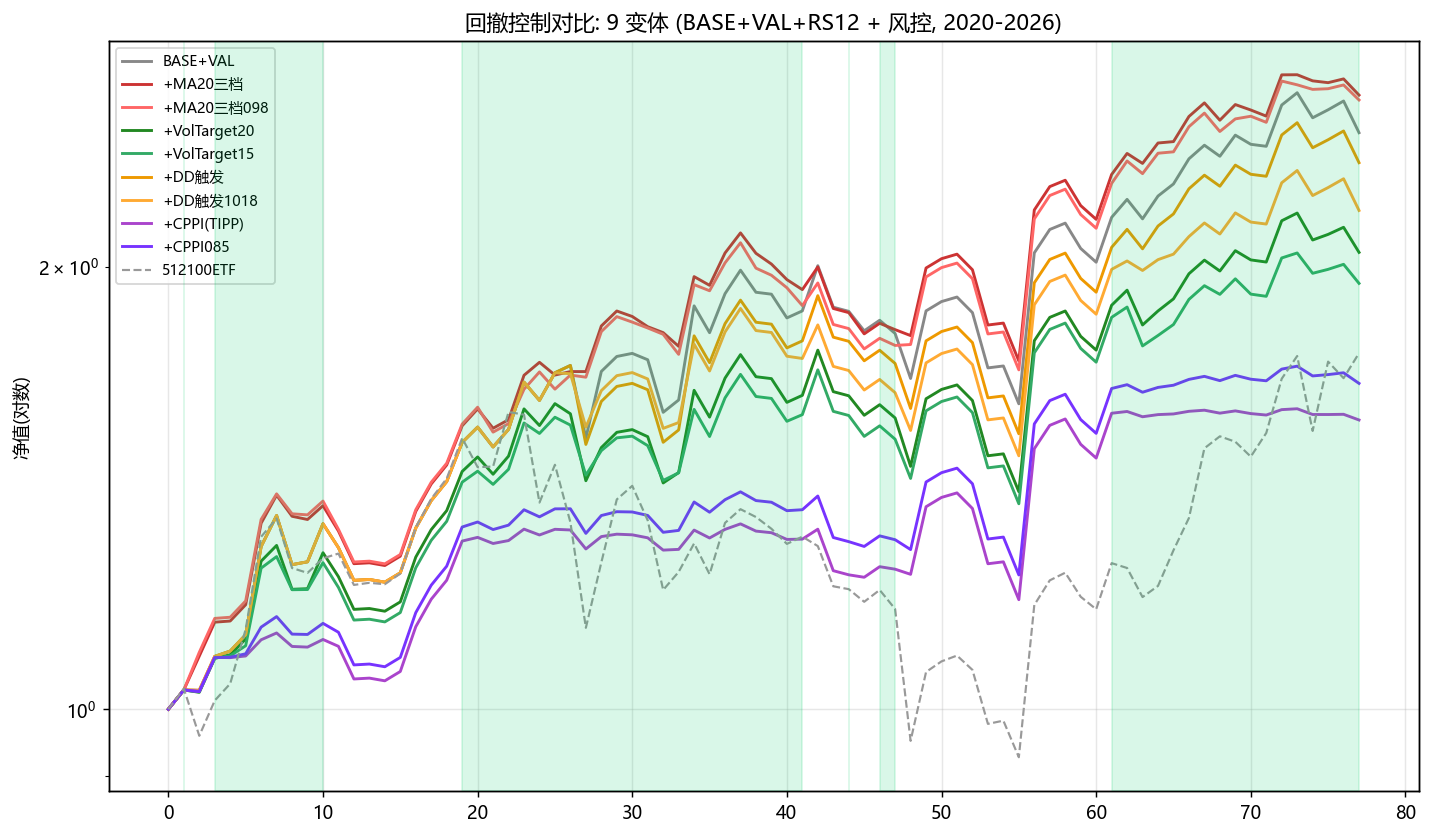
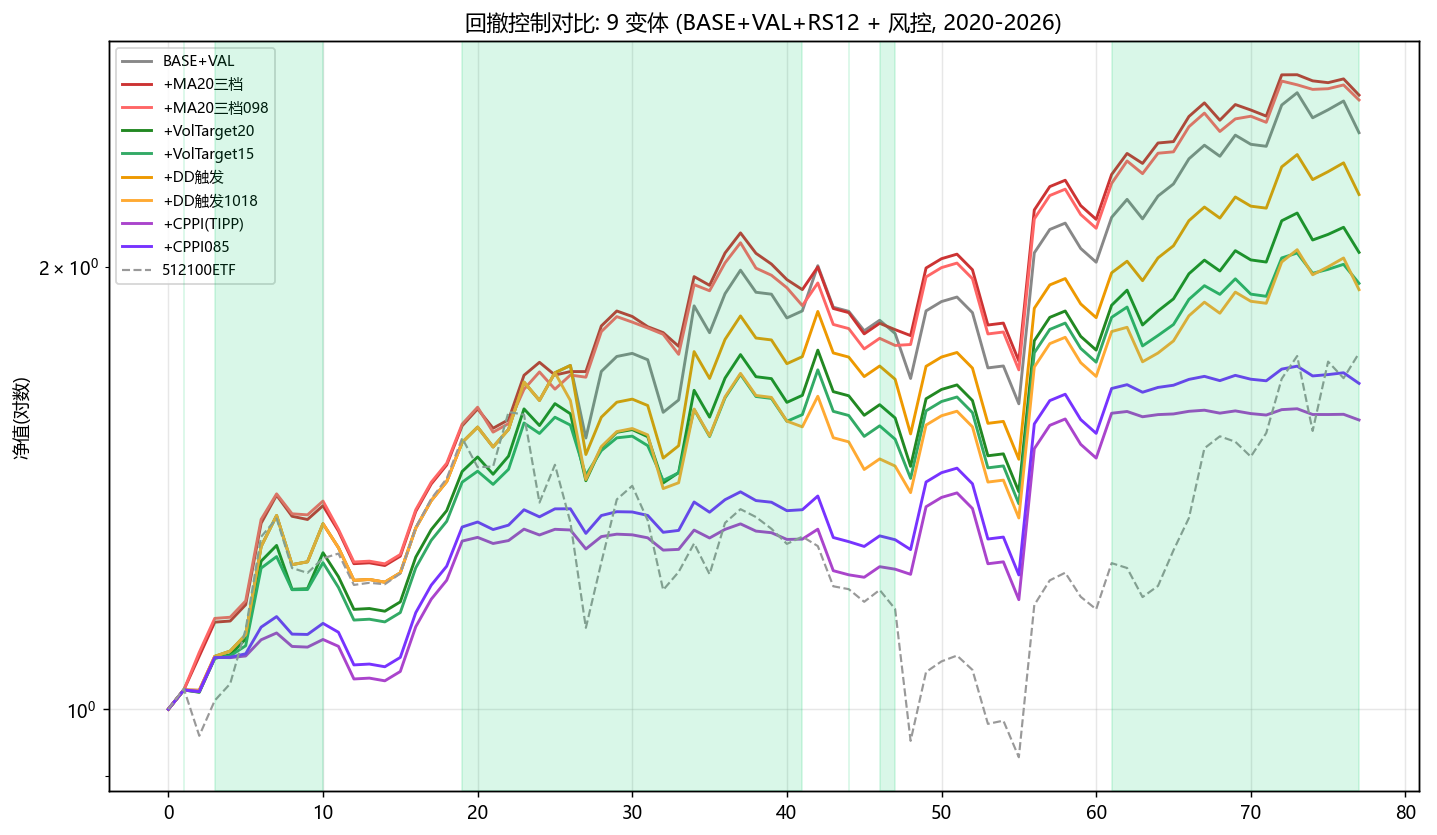
fix(risk_control): 四轮审查修复 — DD shadow 改 T-1 决策顺序(无前视)、shadow 弱段无条件更新、止损成本按锁存边沿扣除(止损8=16.01%)、TIPP 表述不再泛化；DD 行整行更新

diff --git a/scripts/risk_control/risk_control_bt.py b/scripts/risk_control/risk_control_bt.py
@@ -173,6 +173,8 @@ def main():
             w_half = st_w_half[lb]
             shadow = st_shadow[lb]
             shadow_hwm = st_shadow_hwm[lb]
+            # DD: T 日仓位由 T-1 末 shadow 回撤决定 (跨月状态重算, 无前视)
+            dd_prev = shadow / shadow_hwm - 1.0
             ws = []
             for t in hold:
                 r_t = e_ret.loc[t]
@@ -187,16 +189,12 @@ def main():
                         if np.isfinite(v) and v > 0:
                             w = float(np.clip(par["tgt"] / v, par["floor_w"], 1.0))
                     elif rtype == "dd":
-                        # shadow NAV: 假想始终满仓股票组合, 回撤/恢复基于 shadow
-                        # (空仓后 shadow 仍随组合波动, 可自行恢复, 而非等 RS12 救援)
-                        shadow *= (1.0 + comb_ret.loc[t])
-                        shadow_hwm = max(shadow_hwm, shadow)
-                        dd = shadow / shadow_hwm - 1.0
-                        if w_half and dd >= par["fix"]:
+                        # 用 T-1 末的 shadow 回撤决定 T 日仓位 (修复: 先决策再吃当日收益, 无前视)
+                        if w_half and dd_prev >= par["fix"]:
                             w_half = False
-                        if dd <= par["half"]:
+                        if dd_prev <= par["half"]:
                             w_half = True
-                        w = 0.0 if dd <= par["zero"] else (0.5 if w_half else 1.0)
+                        w = 0.0 if dd_prev <= par["zero"] else (0.5 if w_half else 1.0)
                     elif rtype == "cppi":
                         floor = max(floor, par["alpha"] * hwm)
                         w = float(np.clip(par["m"] * (nav - floor) / nav, 0.0, 1.0)) if nav > 0 else 0.0
@@ -204,6 +202,12 @@ def main():
                     r_t = w * comb_ret.loc[t]      # 降仓部分按现金缓冲
                 nav *= (1.0 + r_t)
                 hwm = max(hwm, nav)
+                # shadow NAV: 假想始终满仓股票组合, 与 RS12 状态无关 (修复: 弱段也更新)
+                # 更新发生在当日收益应用之后, 供 T+1 日决策使用 (无前视)
+                if rtype == "dd":
+                    shadow *= (1.0 + comb_ret.loc[t])
+                    shadow_hwm = max(shadow_hwm, shadow)
+                    dd_prev = shadow / shadow_hwm - 1.0
             if ws:
                 avg_w[lb].append(np.mean(ws))
             nav *= (1.0 - COST)

diff --git a/scripts/risk_control/risk_control_bt2.py b/scripts/risk_control/risk_control_bt2.py
@@ -161,10 +161,9 @@ def main():
                 alive = ~trig
                 comb_ = comb.where(alive, 0.0)
                 comb_ret = comb_.mean(axis=1)
-                # 止损执行摩擦: 首次转现金日扣 SL_COST × 当日止损个股权重
-                # (滑点+卖出成本, 未计跌停无法成交/隔夜跳空; 每股权重约 1/TOP_N)
-                new_trig = ((cum.shift(1, fill_value=1.0) < (1 - sl))
-                            & ~(cum.shift(2, fill_value=1.0) < (1 - sl)))
+                # 止损执行摩擦: 首次触发日(锁存边沿)扣 SL_COST × 当日止损个股权重
+                # (修复: 基于锁存 trig 的边沿, 重复跌破阈值不重复扣费; 未计跌停无法成交/隔夜跳空)
+                new_trig = trig & ~trig.shift(1, fill_value=False)
                 comb_ret = comb_ret - SL_COST * new_trig.astype(float).mean(axis=1)
             else:
                 comb_ret = comb.mean(axis=1)

diff --git a/STOCK/risk_control.md b/STOCK/risk_control.md
@@ -3,9 +3,9 @@
 > 脚本: `research/factor_dic/risk_control_bt.py`（结果: `research/factor_dic/results/risk_control_bt.txt`, 图: `results/risk_control_nav.png`）；补充方向 `risk_control_bt2.py`（结果: `results/risk_control_bt2.txt`, 图: `results/risk_control_nav2.png`）；验证 `walk_forward_bt.py`（结果: `results/walk_forward_bt.txt`, 图: `results/walk_forward_nav.png`）
 > 框架: BASE+VAL (ret_1m+ivol+turn+VAL) + RS12 择时, 中证1000 Top50 月度调仓, 20bps 双边, 2020-01~2026-06
 > 风控方式: 日频仓位系数 w 叠加在月度持有期上, 降仓部分按现金(0收益)缓冲; RS12 弱时持 512100 ETF
-> 状态: ⚠ 已修正前视 + 三轮审查问题并重跑（2026-08-03）
+> 状态: ⚠ 已修正前视 + 四轮审查问题并重跑（2026-08-03）
 
-## 修复记录（2026-08-03，三轮审查）
+## 修复记录（2026-08-03，四轮审查）
 
 **第一轮（已推送 e8d6015/61df689）**：MA20/Vol 同日前视 → T-1 信号 T 日生效；主基准 32.28% → 16.04%。
 
@@ -21,6 +21,12 @@
 3. **止损 8% 计入执行摩擦后增量消失**：原 +0.16pp 为毛收益、未计触发止损的卖出成本/滑点/隔夜跳空/跌停无法成交。修复为首次触发日按个股权重扣 SL_COST=1%（敏感性假设，未计跌停无法成交/隔夜跳空）。计入后止损8 = **15.90%**（低于 MA20 基线 16.04%，-0.14pp），**毛收益下略有改善、计入执行成本后未证明有效**。
 4. **防御资产图片只画前 5 变体 → 10 色全绘**（见 defensive_asset_allocation.md）。
 
+**第四轮（本文件数字，commit 紧接 fc1cf47）**：
+1. **DD shadow 同日前视 → T-1 决策顺序**：原实现先 `shadow *= 1+当日收益` 算出当日 dd、再据以决定当日仓位（与 MA20 前视同类：先看到当日暴跌再降仓、恢复日先看到反弹再加仓）。修复为 **T 日仓位由 T-1 末的 shadow 回撤决定，当日收益应用后再更新 shadow 供 T+1 使用**。修复后 DD触发 14.28% → **13.39%**、DD1018 12.95% → **10.79%**；MaxDD 升至 20.67%/20.36%（无前视后恢复滞后、半仓踏空更久）。**上一版主表 DD 行混入旧 MaxDD/超额/卡玛/平均仓位，本轮已整行更新。**
+2. **shadow 弱段冻结 → 无条件更新**：原 shadow 更新位于 `if rs12_on:` 内，弱段持 ETF 时 shadow 冻结，实为"仅强段运行的 active-time shadow"。按文档定义"假想始终满仓股票组合"修复：**shadow 与 RS12 状态无关、无条件按虚拟股票组合收益更新**（弱段也变化，供重新进入强段时继续决策）。本轮结果采用该语义。
+3. **止损成本重复扣除 → 锁存边沿**：原 new_trig 按原始收益"再次穿越阈值"判断，锁存后股票未买回、价格恢复后二次跌破仍重复扣费。修复为 **`trig & ~trig.shift(1)`（锁存状态边沿，仅首次触发扣一次）**。修复后止损8 = **16.01%**（介于无成本 16.20% 与重复收费 15.90% 之间，较 MA20 基线 16.04% 基本持平 -0.03pp）、止损12 = 15.97%、止损8+对冲07B = 8.30%。
+4. **TIPP 表述修正（勿泛化）**：TIPP 为"仅 RS12 强段生效、floor 按扣成本前 NAV 更新"的自定义版本，7.32% 只说明**当前实现表现差**，不宜泛化为"CPPI/TIPP 普遍无效"。
+
 ## 结果对比（9 变体, 2020-2026, 月度调仓 Top50, 修复后）
 
 | 策略 | 年化 | Sharpe | MaxDD | 月胜率 | 超额vETF | 卡玛 | 平均仓位 |
@@ -30,8 +36,8 @@
 | **+MA20三档(0.98)** | **16.04%** | **0.95** | **18.06%** | 58.4% | +48.68% | **0.89** | 63% |
 | +VolTarget20% | 11.80% | 0.68 | 19.89% | 59.7% | +17.10% | 0.59 | 90% |
 | +VolTarget15% | 10.96% | 0.66 | 18.93% | 59.7% | +11.55% | 0.58 | 76% |
-| +DD触发(15/25) | 14.28% | 0.78 | 17.84% | 61.0% | +23.23% | 0.71 | 88% |
-| +DD触发1018(10/18) | 12.95% | 0.68 | 18.19% | 58.4% | +7.00% | 0.56 | 78% |
+| +DD触发(15/25) | 13.39% | 0.72 | 20.67% | 61.0% | +28.20% | 0.65 | 99% |
+| +DD触发1018(10/18) | 10.79% | 0.62 | 20.36% | 58.4% | +10.45% | 0.53 | 92% |
 | +CPPI(TIPP, m3 α.9) | 7.32% | 0.56 | 15.41% | 54.5% | -9.95% | 0.47 | 20% |
 | +CPPI085(m2.5 α.85) | 8.28% | 0.61 | 15.41% | 58.4% | -4.63% | 0.54 | 31% |
 | 基准 000852 | 6.52% | 0.38 | 42.52% | | | | |
@@ -43,17 +49,17 @@
 
 - **MA20 三档**: 000852 收盘 vs MA20（T-1 信号、T 日生效）: `close≥MA20 → w=1.0; MA20×0.97(或0.98)≤close<MA20 → w=0.5; close<MA20×deep → w=0`
 - **VolTarget**: `w = clip(目标年化σ / 000852 已实现σ20, 0.2, 1.0)`（T-1 信号）
-- **DD触发**: **shadow NAV**（假想始终满仓股票组合）高水位回撤（跨月延续）`≤-15%→半仓, ≤-25%→空仓, shadow 回撤修复至-5%恢复`（1018 版为 10/18/3）。shadow NAV 保证空仓后仍能按满仓组合的回撤状态自行恢复
+- **DD触发**: **shadow NAV**（假想始终满仓股票组合，**与 RS12 状态无关、弱段也更新**）高水位回撤（跨月延续）；**T 日仓位由 T-1 末 shadow 回撤决定（无前视）**：`dd≤-15%→半仓, dd≤-25%→空仓, dd 修复至-5%恢复`（1018 版为 10/18/3）
 - **CPPI(TIPP)**: `floor = max(floor, α×高水位)`（floor 初始 = α×初始净值, 跨月延续）; `w = clip(m×(nav-floor)/nav, 0, 1)`
 
 ## 结论（修复后）
 
 1. **MA20 三档：温和改善，仍是唯一有效的风控**。年化 16.04~16.18%（无风控 15.12%），超额 vETF +48.7~49.8%；Sharpe 0.95~0.96（vs 0.80）、MaxDD 18.1%（vs 19.46%）、卡玛 0.89（vs 0.78）。修复前视后不再有"碾压"优势，但**降回撤/提卡玛的价值真实且保留**。
 2. **波动率目标无增量（不变）**：目标 15-20% 高于组合实际波动，触发少。
-3. **DD 触发无增量（保留；shadow NAV 口径下同样更差）**：修复后跨期版 12.69%/10.24% → shadow NAV 版 **14.28%/12.95%**（低于无风控 0.8~2.2pp）。shadow NAV 保证空仓后可自行恢复，但触发半仓后需 shadow 回撤修复到 -3~5% 才恢复，在弱市反弹期长期低仓位踏空。**12.69%/10.24% 是"空仓后等 RS12 救援"的特殊规则数字，不能泛化为标准 DD-trigger 结果；shadow NAV 版 14.28%/12.95% 才是常规可恢复口径，且结论不变（无增量）**。
-4. **CPPI/TIPP 无效（不变，更差）**：跨期 TIPP 平均仓位仅 20%、年化 7.32%；CPPI085 用真实 α=0.85 后 8.28%。MaxDD 15.41% 瓶颈仍在 RS12 弱段 ETF（TIPP 只保护强段）。
-5. **个股止损 8% 计摩擦后无确认增量，止损12 亦无**：毛收益（latch 后）止损8 +0.16pp；计入首次触发日按个股权重的 1% 执行摩擦（滑点+卖出成本，未计跌停无法成交/隔夜跳空）后，止损8 = 15.90%（**-0.14pp，低于 MA20 基线**）、止损12 = 15.96%（-0.08pp）。**"毛收益下略有改善、计入止损执行成本后尚未证明有效"；不建议单独启用**。
-6. **IM 空头对冲大幅恶化（不变，数字更新）**：β0.7 无基差 12.53%（-3.5pp）；+基差 8.33%；β1.0+基差 6.71%；加止损8 后 8.20%。对本策略仍不可行。
+3. **DD 触发无增量（保留；无前视 shadow 版更差）**：第四轮修复 T-1 决策顺序 + shadow 弱段持续更新后，DD触发 **13.39%**、DD1018 **10.79%**（低于无风控 1.7~4.3pp），MaxDD 20.67%/20.36% 甚至高于无风控 19.46%。原因：无前视下恢复信号滞后一天、触发半仓后需 shadow 回撤修复到 -3~5% 才恢复，弱市反弹期踏空更久。**"DD 触发无增量"结论稳定（三轮三种口径均为无增量）**。
+4. **CPPI/TIPP 当前实现无效（表述修正，勿泛化）**：TIPP 为"仅 RS12 强段生效、floor 按扣成本前 NAV 更新"的**自定义版本**——平均仓位仅 20%、年化 7.32%；CPPI085 用真实 α=0.85 后 8.28%。**该结果只说明当前实现表现差，不能泛化为"CPPI/TIPP 普遍无效"**。MaxDD 15.41% 瓶颈仍在 RS12 弱段 ETF（TIPP 只保护强段）。
+5. **个股止损 8% 计摩擦后与基线基本持平，无确认增量**：毛收益（latch 后）止损8 +0.16pp；锁存边沿计 1% 执行摩擦（滑点+卖出成本，未计跌停无法成交/隔夜跳空）后止损8 = **16.01%**（较 MA20 基线 16.04% 仅 -0.03pp，与基线基本持平）、止损12 = 15.97%（-0.07pp）。**结论："毛收益下略有改善、计入执行成本后未确认有效（约持平）"，不建议单独启用**。
+6. **IM 空头对冲大幅恶化（不变，数字更新）**：β0.7 无基差 12.53%（-3.5pp）；+基差 8.33%；β1.0+基差 6.71%；加止损8 后 8.30%。对本策略仍不可行。
 7. **walk-forward 滚动选参实际跑输（保留，数字更新）**：修复按 rb_next 选参后 walk-forward 全样本 15.06% < 固定 0.98（16.04%）且 < 无风控 15.12%（超额 -0.31%）。滚动选参有真实损失（2021/2022 选 deep=1.00 在后续表现 13.78%，拖累明显）。**"滚动 OOS 选参无损失"不成立；固定 0.98 的稳健性仍由 [A] 子区间与 [B] 高原支撑**（见下）。
 8. **剩余回撤瓶颈不变**：所有策略 MaxDD ≥15.4%，来自 RS12 弱段 ETF 下跌（2024-05~07 ETF -15.4%）。
 
@@ -63,19 +69,19 @@
 |---|---|---|---|---|---|---|---|
 | BASE+VAL（无风控） | 15.12% | 0.80 | 19.46% | 61.0% | +41.25% | 0.78 | 100% |
 | **+MA20三档(0.98)** | **16.04%** | **0.95** | **18.06%** | 58.4% | +48.68% | **0.89** | 63% |
-| +MA20+止损8%（latch+摩擦） | 15.90% | 0.94 | 18.23% | 57.1% | +47.56% | 0.87 | 63% |
-| +MA20+止损12%（latch+摩擦） | 15.96% | 0.94 | 18.07% | 58.4% | +47.99% | 0.88 | 63% |
+| +MA20+止损8%（latch+摩擦） | 16.01% | 0.95 | 18.14% | 57.1% | +48.46% | 0.88 | 63% |
+| +MA20+止损12%（latch+摩擦） | 15.97% | 0.95 | 18.07% | 58.4% | +48.09% | 0.88 | 63% |
 | +MA20+对冲β0.7（无基差） | 12.53% | 0.79 | 15.41% | 58.4% | +22.08% | 0.81 | 63% |
 | +MA20+对冲β0.7+基差9.3% | 8.33% | 0.56 | 15.41% | 55.8% | -4.33% | 0.54 | 63% |
 | +MA20+对冲β1.0+基差 | 6.71% | 0.45 | 19.15% | 55.8% | -13.18% | 0.35 | 63% |
-| +MA20+止损8%+对冲β0.7+基差 | 8.20% | 0.55 | 15.41% | 53.2% | -5.10% | 0.53 | 63% |
+| +MA20+止损8%+对冲β0.7+基差 | 8.30% | 0.55 | 15.41% | 53.2% | -4.52% | 0.54 | 63% |
 
 ## 建议
 
 主策略保持 **BASE+VAL + RS12 + MA20三档(0.98)**：年化 16.04%、Sharpe 0.95、MaxDD 18.06%、卡玛 0.89、超额 vETF +48.68%。
 - MA20 三档的真实价值是"降回撤/提卡玛/超额"，收益超额仅 +1pp；
 - 参数 0.98 在有效高原（0.96~0.99）内，但**不要依赖"滚动选参"自动调 deep**（已证有损失），固定 0.98 即可；
-- 可考虑叠加止损8%（毛收益 +0.16pp，但计入执行摩擦后 -0.14pp，**未确认有效**，暂不建议启用）；
+- 可考虑叠加止损8%（毛收益 +0.16pp，锁存边沿摩擦后 16.01%、较基线 16.04% 基本持平，**未确认有效**，暂不建议启用）；
 - 弱段 ETF 回撤仍是瓶颈（见 defensive_asset_allocation.md）。
 
 ## Walk-forward / OOS 验证（walk_forward_bt.py, 修复后重跑）
@@ -148,4 +154,4 @@
 
 ## 回测口径
 
-月度调仓、调仓日 T 日因子值、未来 20 日收益、Top50 等权、20bps 双边成本、风控日频生效（T-1 信号 T 日生效，降仓部分现金缓冲）、DD/CPPI 状态跨月延续（高水位不重置）、RS12 弱时持 512100 ETF、000852/512100 基准、超额 vETF 按 rb_next 对齐。
+月度调仓、调仓日 T 日因子值、未来 20 日收益、Top50 等权、20bps 双边成本、风控日频生效（T-1 信号 T 日生效，降仓部分现金缓冲）、DD/CPPI 状态跨月延续（高水位不重置）、DD 用 shadow NAV（T-1 末回撤决定 T 日仓位、弱段也按满仓组合更新）、RS12 弱时持 512100 ETF、000852/512100 基准、超额 vETF 按 rb_next 对齐。

diff --git a/STOCK/README.md b/STOCK/README.md
@@ -14,5 +14,5 @@ A股股票品类已确认研究成果索引。
 | [regime_study.md](./regime_study.md) | 市场状态研究：2020~2026 因子×小盘/全市场分类、时期归因、RS12 择时回测 | ✅ 已完成（RS12 择时超额 vs ETF +20.8%） |
 | [style_factors.md](./style_factors.md) | 风格因子增量：巴菲特式质量/价值/成长对主策略贡献（VAL 合成价值系 +RS12 年化 16.1%） | ✅ 已完成（价值系显著增量 / 质量·成长反向） |
 | [alpha101_factors.md](./alpha101_factors.md) | WorldQuant Alpha101 代表因子验证（12 个量价因子对主策略增量） | ✅ 已完成（月频下无增量, ILLIQ A股反向） |
-| [risk_control.md](./risk_control.md) | 回撤控制对比：MA20三档/波动率目标/回撤触发/CPPI-TIPP | ⚠ 已修正同日前视并重跑（2026-08-03 三轮审查：主基准 32.28%→16.04%，walk-forward 改按 rb_next 选参 15.06%、DD 改 shadow NAV 14.28%、止损8 计摩擦后 15.90%；含 2018-2019 独立 OOS ✅） |
+| [risk_control.md](./risk_control.md) | 回撤控制对比：MA20三档/波动率目标/回撤触发/CPPI-TIPP | ⚠ 已修正前视并重跑（2026-08-03 四轮审查：主基准 32.28%→16.04%，walk-forward 按 rb_next 选参 15.06%、DD shadow NAV 无前视后 13.39%、止损8 锁存边沿摩擦 16.01%；含 2018-2019 独立 OOS ✅） |
 | [defensive_asset_allocation.md](./defensive_asset_allocation.md) | 多资产避险：RS12 弱段持货基/国债/黄金/混合对比 | ⚠ 已修正代码并重跑（2026-08-03 三轮审查：修复 MA20 前视/V4 公式、V5-V8 改月度再平衡；V0 收益最高 16.25%、V8 月平衡卡玛最优 0.93、V8d 日恒权对照 0.94；上游 risk_control 已同步重估；脚本见 scripts/defensive_asset/） |

diff --git a/README.md b/README.md
@@ -14,7 +14,7 @@
 
 - [股票 STOCK](./STOCK/README.md)
   - [风格中性化指数增强（final_quant）](./STOCK/style_neutralized_index_enhancement.md) — ✅ 因子确认 / ⚠ MaxDD 待回源复核
-  - [回撤控制：MA20 三档（risk_control）](./STOCK/risk_control.md) — ⚠ 已修正同日前视并重跑（三轮审查：主基准 32.28%→16.04%，walk-forward 按 rb_next 选参、DD shadow NAV；含 2018-2019 独立 OOS）
+  - [回撤控制：MA20 三档（risk_control）](./STOCK/risk_control.md) — ⚠ 已修正同日前视并重跑（四轮审查：主基准 32.28%→16.04%，walk-forward 按 rb_next 选参、DD shadow NAV 无前视、止损锁存边沿计摩擦；含 2018-2019 独立 OOS）
   - [多资产避险配置：RS12 弱段资产替换（quant-system）](./STOCK/defensive_asset_allocation.md) — ⚠ 已修正代码并重跑（前视修复后结论反转：V0 收益最高 16.25%、V8 月平衡卡玛最优 0.93、V8d 日恒权对照 0.94；上游已同步重估）
   - [期权增强型全局策略 Study 005（quant-system）](./STOCK/option_enhanced_study005.md) — ❌ 已证伪（Sharpe 3.08 无法复现）
   - [新闻情感与股价预测（news_stock_research）](./STOCK/news_sentiment_prediction.md) — ❌ 已证伪（显著性检验未通过）
